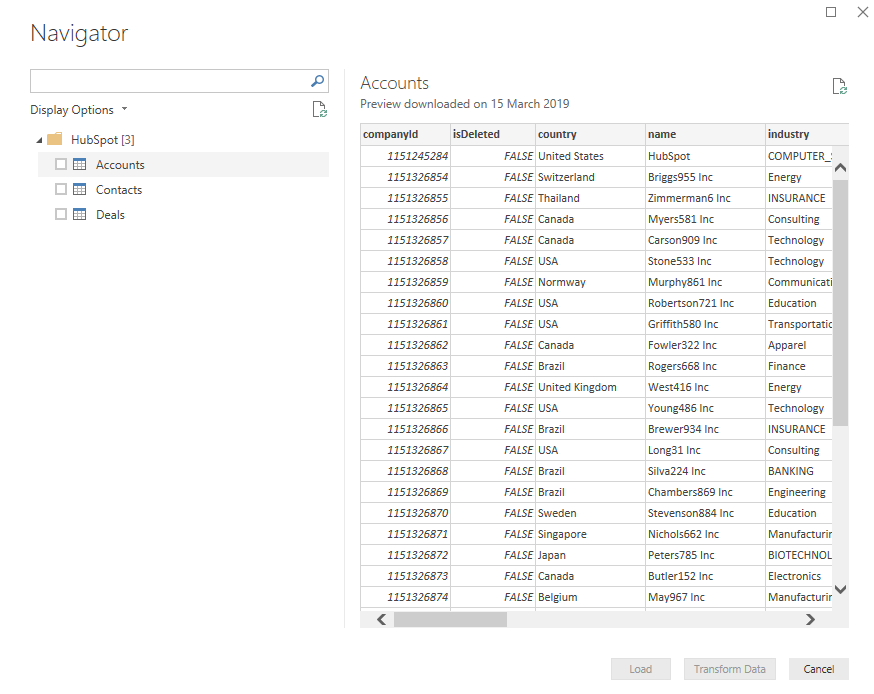
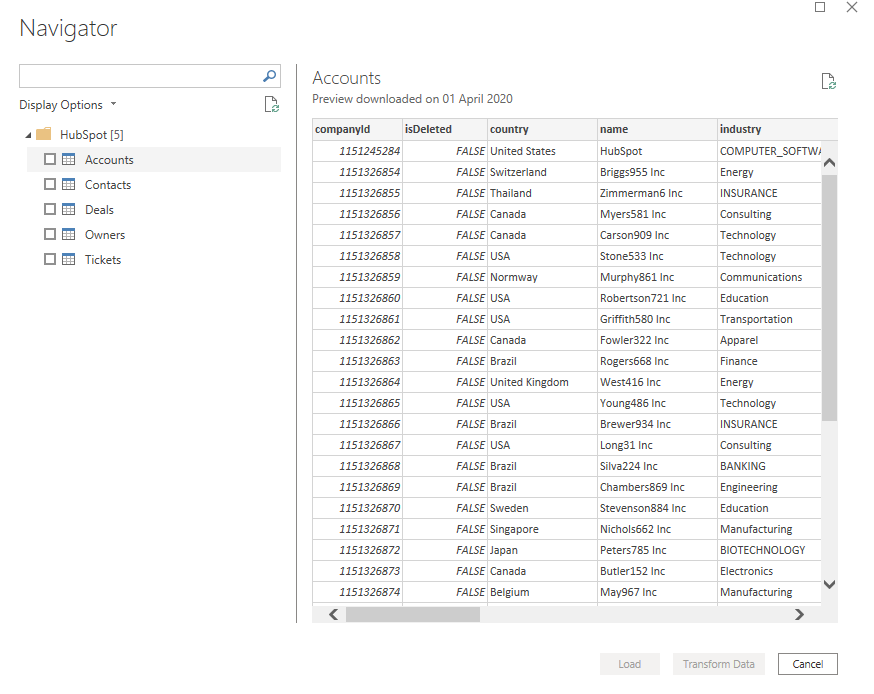
build 1.0.0.4

diff --git a/README.md b/README.md
@@ -8,13 +8,23 @@ This is a repository of custom data connectors to Power BI developed by team at 
 
 
 ## Need further support?
-If you need further support on these connectors (enhancements etc.) or want us to develop new connectors, feel free to reach us at [bigintsolutions.com/contact][bigintsolutions-contact]
+If you need further support on these connectors (enhancements etc.) or want us to develop new connectors, feel free to reach us at [bigintsolutions.com/contact][bigintsolutions-contact] or send me an email (my email id is in the profile section).
 
 ## The HubSpot Connector
 
 The most requested data connector is here! Connect to HubSpot data and visualize your sales pipeline funnel, deal owner performance, win rate and many more metrics.
 
-**I'm excited, how do I get started?**
+### Release
+
+**Oct 2020**
+- Added Tickets object
+- Added Owners object
+
+**Jun 2020**
+- Added associated company in contacts
+- Added associated company in deals
+
+###I'm excited, how do I get started?
 
 Step 1: Get HubSpot key for your account
 
@@ -51,7 +61,7 @@ After you have imported the data, you can create a stunning view of the data lik
 
 Extremely useful connector to fetch Zendesk Support views and tickets information from Zendesk. The connector uses OAuth 2.0 to access your Zendesk's account data.
 
-** Setup **
+### Setup
 
 1. Register an OAuth 2.0 client.
 
